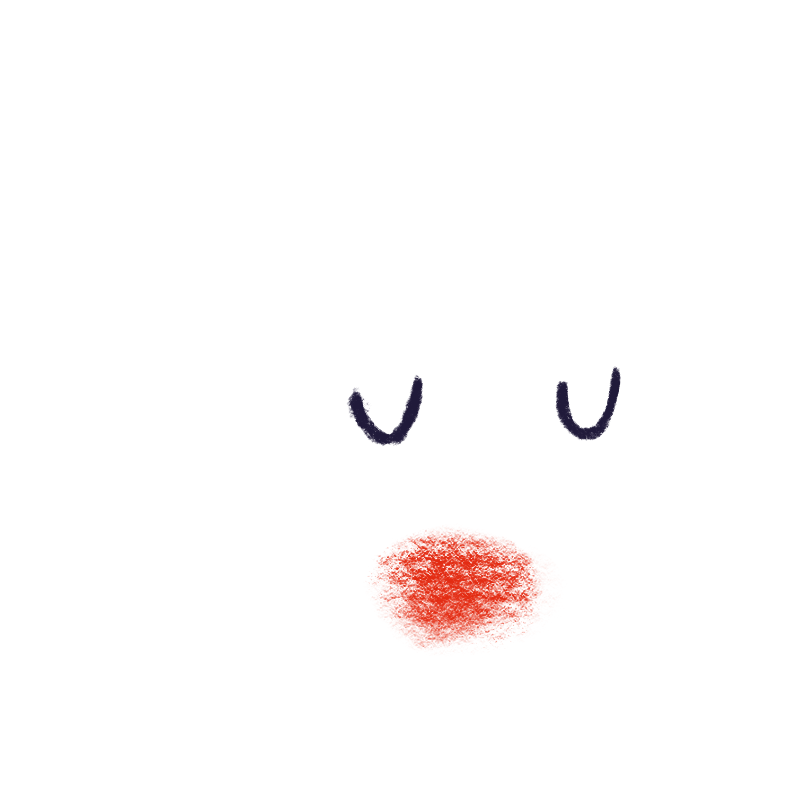
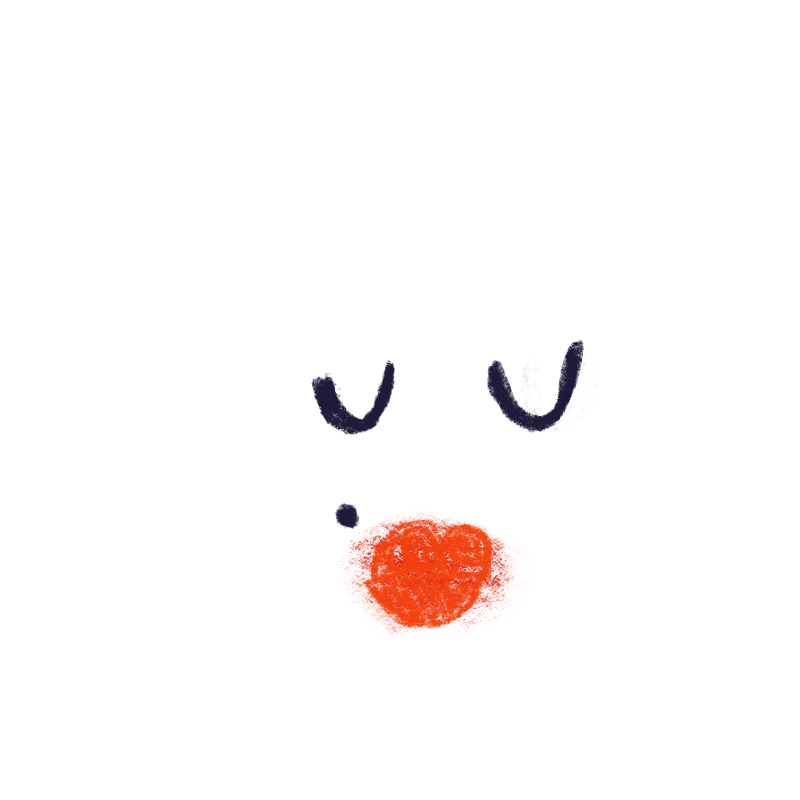
Add smile

diff --git a/src/Builder.js b/src/Builder.js
@@ -4,6 +4,7 @@ import body2 from "./images/body2.png";
 import smile0 from "./images/smile0.png";
 import smile1 from "./images/smile1.png";
 import smile2 from "./images/smile2.png";
+import smile3 from "./images/smile3.png";
 import addOn0 from "./images/addon0.png";
 import addOn1 from "./images/addon1.png";
 import addOn2 from "./images/addon2.png";
@@ -38,7 +39,7 @@ function Builder({
             checked={body === 0}
             onChange={() => onBodyChange(0)}
           />
-          <img src={body0} alt="" />
+          <img src={body0} alt="A dust bunny form in gray." />
         </label>
         <label>
           <input
@@ -46,7 +47,7 @@ function Builder({
             checked={body === 1}
             onChange={() => onBodyChange(1)}
           />
-          <img src={body1} alt="" />
+          <img src={body1} alt="A dust bunny form in green." />
         </label>
         <label>
           <input
@@ -54,7 +55,7 @@ function Builder({
             checked={body === 2}
             onChange={() => onBodyChange(2)}
           />
-          <img src={body2} alt="" />
+          <img src={body2} alt="A dust bunny form in brown." />
         </label>
       </div>
       <div className="builder-smile">
@@ -65,7 +66,7 @@ function Builder({
             checked={smile === 0}
             onChange={() => onSmileChange(0)}
           />
-          <img src={smile0} alt="" />
+          <img src={smile0} alt="A happy smile." />
         </label>
         <label>
           <input
@@ -73,7 +74,7 @@ function Builder({
             checked={smile === 1}
             onChange={() => onSmileChange(1)}
           />
-          <img src={smile1} alt="" />
+          <img src={smile1} alt="A fabulous smile." />
         </label>
         <label>
           <input
@@ -81,7 +82,15 @@ function Builder({
             checked={smile === 2}
             onChange={() => onSmileChange(2)}
           />
-          <img src={smile2} alt="" />
+          <img src={smile2} alt="A stunned and shy smile." />
+        </label>
+        <label>
+          <input
+            type="radio"
+            checked={smile === 3}
+            onChange={() => onSmileChange(3)}
+          />
+          <img src={smile3} alt="A happy smile with glasses." />
         </label>
       </div>
 
@@ -93,7 +102,7 @@ function Builder({
             checked={addOns.has(0)}
             onChange={() => onAddOnChange(0)}
           />
-          <img src={addOn0} alt="" />
+          <img src={addOn0} alt="Dirt add-on." />
           <p>Dirt</p>
         </label>
         <label>
@@ -102,7 +111,7 @@ function Builder({
             checked={addOns.has(1)}
             onChange={() => onAddOnChange(1)}
           />
-          <img src={addOn1} alt="" />
+          <img src={addOn1} alt="Nails add-on." />
           <p>Nails</p>
         </label>
         <label>
@@ -111,7 +120,7 @@ function Builder({
             checked={addOns.has(2)}
             onChange={() => onAddOnChange(2)}
           />
-          <img src={addOn2} alt="" />
+          <img src={addOn2} alt="Lint add-on." />
           <p>Lint</p>
         </label>
         <label>
@@ -120,7 +129,7 @@ function Builder({
             checked={addOns.has(3)}
             onChange={() => onAddOnChange(3)}
           />
-          <img src={addOn3} alt="" />
+          <img src={addOn3} alt="Hair add-on." />
           <p>Hair</p>
         </label>
         <label>
@@ -129,7 +138,7 @@ function Builder({
             checked={addOns.has(4)}
             onChange={() => onAddOnChange(4)}
           />
-          <img src={addOn4} alt="" />
+          <img src={addOn4} alt="Fish food add-on." />
           <p>Fish food</p>
         </label>
 
@@ -139,7 +148,7 @@ function Builder({
             checked={addOns.has(5)}
             onChange={() => onAddOnChange(5)}
           />
-          <img src={addOn5} alt="" />
+          <img src={addOn5} alt="Pet hair add-on." />
           <p>Pet hair</p>
         </label>
 
@@ -149,7 +158,7 @@ function Builder({
             checked={addOns.has(6)}
             onChange={() => onAddOnChange(6)}
           />
-          <img src={addOn6} alt="" />
+          <img src={addOn6} alt="Crumbs add-on." />
           <p>Crumbs</p>
         </label>
 
@@ -159,7 +168,7 @@ function Builder({
             checked={addOns.has(7)}
             onChange={() => onAddOnChange(7)}
           />
-          <img src={addOn7} alt="" />
+          <img src={addOn7} alt="Herbs add-on." />
           <p>Herbs</p>
         </label>
 
@@ -169,7 +178,7 @@ function Builder({
             checked={addOns.has(8)}
             onChange={() => onAddOnChange(8)}
           />
-          <img src={addOn8} alt="" />
+          <img src={addOn8} alt="Eyelashes add-on." />
           <p>Eyelashes</p>
         </label>
 
@@ -179,7 +188,7 @@ function Builder({
             checked={addOns.has(9)}
             onChange={() => onAddOnChange(9)}
           />
-          <img src={addOn9} alt="" />
+          <img src={addOn9} alt="Cat litter add-on." />
           <p>Cat litter</p>
         </label>
 
@@ -189,7 +198,7 @@ function Builder({
             checked={addOns.has(10)}
             onChange={() => onAddOnChange(10)}
           />
-          <img src={addOn10} alt="" />
+          <img src={addOn10} alt="Makeup add-on." />
           <p>Makeup</p>
         </label>
 
@@ -199,7 +208,7 @@ function Builder({
             checked={addOns.has(11)}
             onChange={() => onAddOnChange(11)}
           />
-          <img src={hair0} alt="" />
+          <img src={hair0} alt="Mohawk-style hairdo add-on." />
           <p>Mohawk</p>
         </label>
 
@@ -209,7 +218,7 @@ function Builder({
             checked={addOns.has(12)}
             onChange={() => onAddOnChange(12)}
           />
-          <img src={hair1} alt="" />
+          <img src={hair1} alt="Elvis-style hairdo add-on." />
           <p>Elvis</p>
         </label>
 
@@ -219,7 +228,7 @@ function Builder({
             checked={addOns.has(13)}
             onChange={() => onAddOnChange(13)}
           />
-          <img src={hair2} alt="" />
+          <img src={hair2} alt="Joker-style hairdo add-on." />
           <p>Joker</p>
         </label>
       </div>

diff --git a/src/DustBunny.js b/src/DustBunny.js
@@ -4,6 +4,7 @@ import body2 from "./images/body2.png";
 import smile0 from "./images/smile0.png";
 import smile1 from "./images/smile1.png";
 import smile2 from "./images/smile2.png";
+import smile3 from "./images/smile3.png";
 import addon0 from "./images/addon0.png";
 import addon1 from "./images/addon1.png";
 import addon2 from "./images/addon2.png";
@@ -20,7 +21,7 @@ import hair1 from "./images/hair1.png";
 import hair2 from "./images/hair2.png";
 
 const bodies = [body0, body1, body2];
-const smiles = [smile0, smile1, smile2];
+const smiles = [smile0, smile1, smile2, smile3];
 const addOnImages = [
   addon0,
   addon1,
@@ -41,8 +42,7 @@ const addOnImages = [
 function DustBunny({ body, smile, addOns }) {
   return (
     <div className="dust-bunny">
-      <img src={bodies[body]} alt="" />
-      <img className="dust-bunny-smile" src={smiles[smile]} alt="" />
+      <img src={bodies[body]} />
       {addOns &&
         Array.from(addOns).map((addOn) => {
           return (
@@ -50,10 +50,10 @@ function DustBunny({ body, smile, addOns }) {
               key={addOn}
               className="dust-bunny-addon"
               src={addOnImages[addOn]}
-              alt=""
             />
           );
         })}
+      <img className="dust-bunny-smile" src={smiles[smile]} />
     </div>
   );
 }

diff --git a/src/App.js b/src/App.js
@@ -19,6 +19,11 @@ function App() {
   const database = getDatabase(firebase);
   const dbRef = ref(database);
 
+  const showWelcome =
+    selectedBody === undefined &&
+    selectedSmile === undefined &&
+    selectedAddOns.size === 0;
+
   function submitDustBunny() {
     push(dbRef, {
       body: selectedBody,
@@ -85,11 +90,20 @@ function App() {
             <div className="right-side">
               <p>Live preview:</p>
               <div className="preview">
-                <DustBunny
-                  body={selectedBody}
-                  smile={selectedSmile}
-                  addOns={selectedAddOns}
-                />
+                {showWelcome ? (
+                  <p>
+                    Hello, welcome! <br />
+                    Here you can create your own dust bunny. Choose a body, a
+                    smile, and add-ons, and save it to the gallery to share with
+                    friends and family.
+                  </p>
+                ) : (
+                  <DustBunny
+                    body={selectedBody}
+                    smile={selectedSmile}
+                    addOns={selectedAddOns}
+                  />
+                )}
               </div>
               <div className="submit-container">
                 <input

diff --git a/src/index.css b/src/index.css
@@ -118,6 +118,14 @@ a:hover {
   border: 1.5px solid #c09206;
   border-radius: 0.25rem;
   background-color: #ffff;
+  display: flex;
+  justify-content: center;
+  align-items: center;
+}
+
+.preview p {
+  text-align: center;
+  padding: 1rem;
 }
 
 .dust-bunny img {
@@ -202,6 +210,3 @@ footer {
 footer a {
   text-transform: none;
 }
-
-/* #ffcb2b */
-/*#c09206*/
